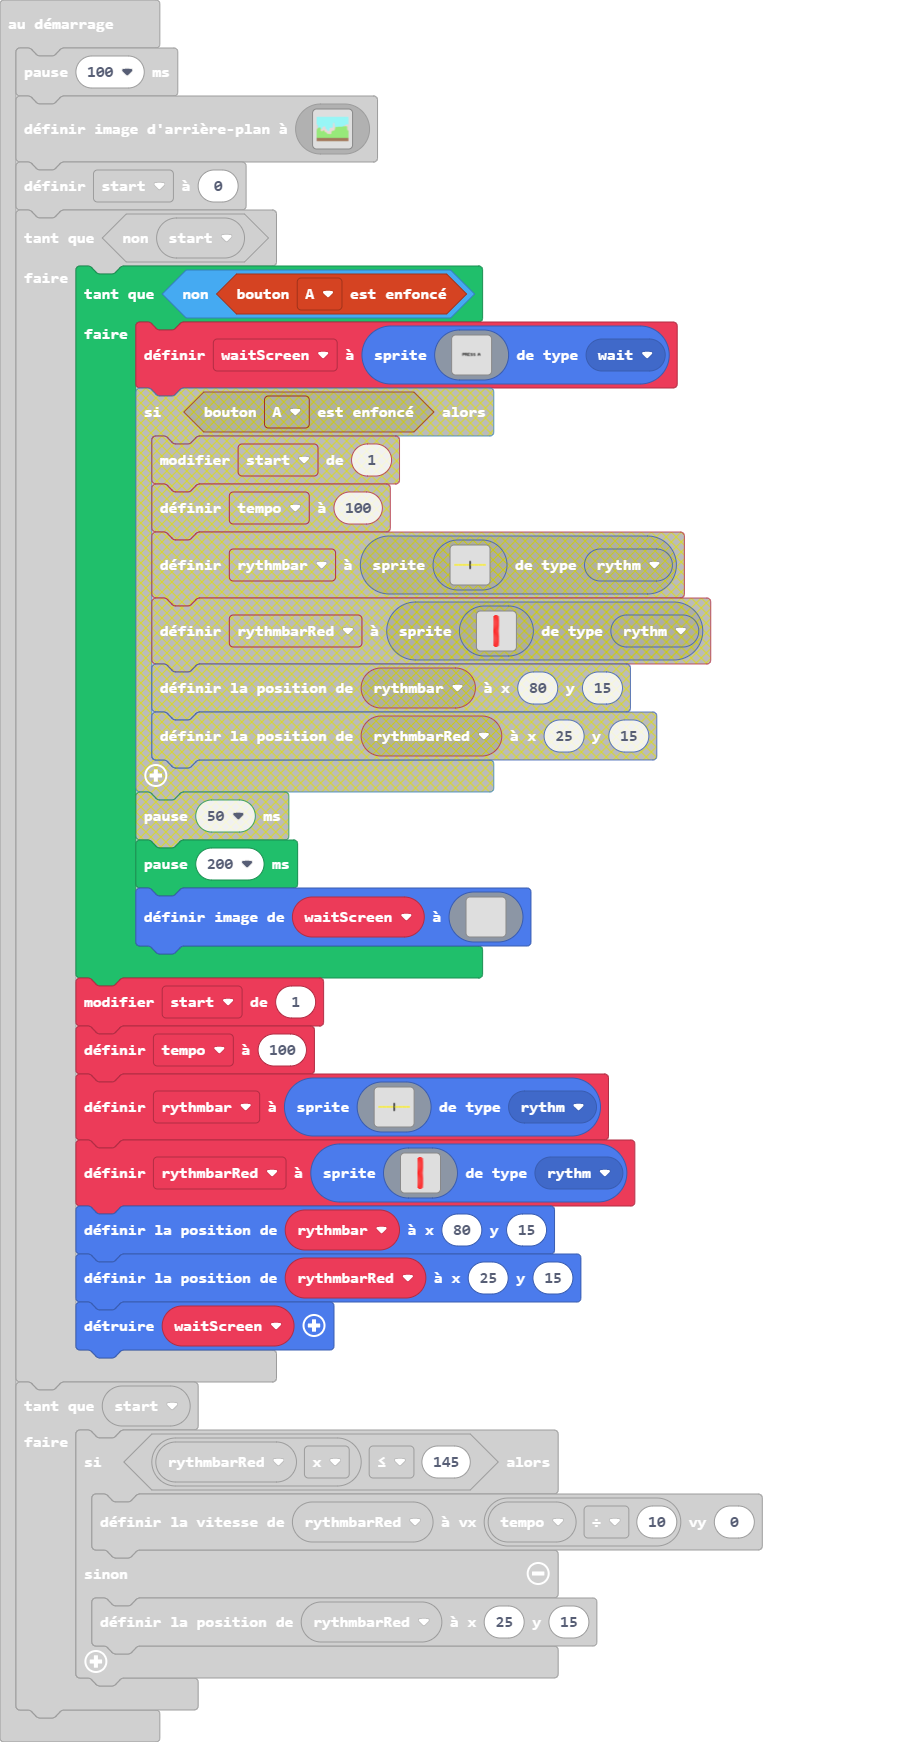
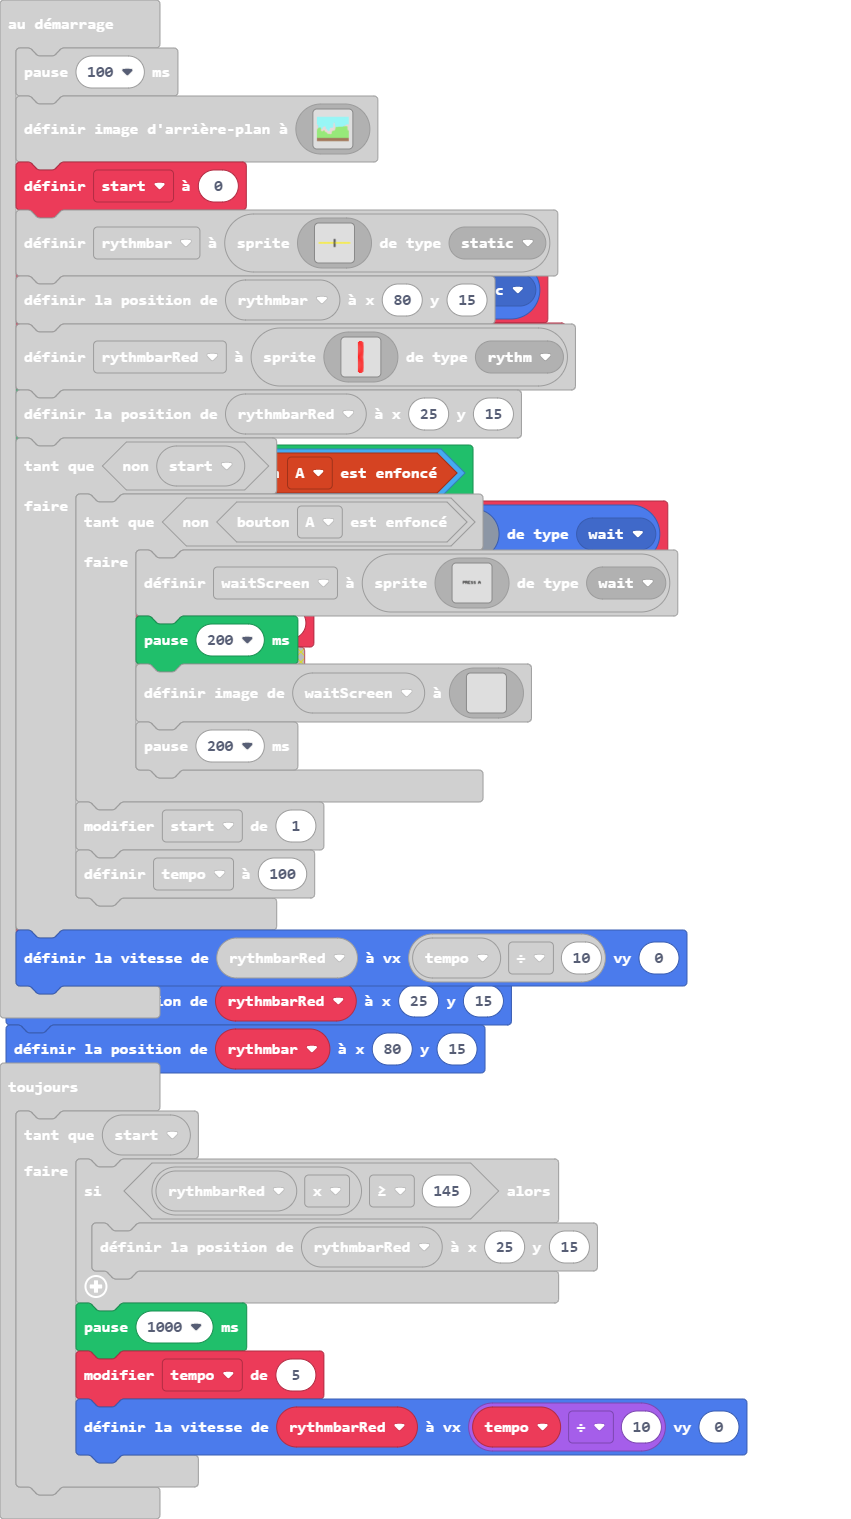
Mise à jour main.blocks, main.ts, images.g.ts

diff --git a/images.g.ts b/images.g.ts
@@ -285,60 +285,6 @@ eeeeeeeeeeeeeeeeeeeeeeeeeeeeeeeeeeeeeeeeeeeeeeeeeeeeeeeeeeeeeeeeeeeeeeeeeeeeeeee
 . . . . . . . . . . . . . . . . 
 . . . . . . . . . . . . . . . . 
 `;
-            case "image9":return img`
-. . . . . . . . . . . . . . . . 
-. . . . . . . . . . . . . . . . 
-. . . . . . . . . . . . . . . . 
-. . . . . . . . . . . . . . . . 
-. . . . . . . . . . . . . . . . 
-. . . . . . . . . . . . . . . . 
-. . . . . . . . . . . . . . . . 
-. . . . . . . . . . . . . . . . 
-. . . . . . . . . . . . . . . . 
-. . . . . . . . . . . . . . . . 
-. . . . . . . . . . . . . . . . 
-. . . . . . . . . . . . . . . . 
-. . . . . . . . . . . . . . . . 
-. . . . . . . . . . . . . . . . 
-. . . . . . . . . . . . . . . . 
-. . . . . . . . . . . . . . . . 
-`;
-            case "image10":return img`
-. . . . . . . . . . . . . . . . 
-. . . . . . . . . . . . . . . . 
-. . . . . . . . . . . . . . . . 
-. . . . . . . . . . . . . . . . 
-. . . . . . . . . . . . . . . . 
-. . . . . . . . . . . . . . . . 
-. . . . . . . . . . . . . . . . 
-. . . . . . . . . . . . . . . . 
-. . . . . . . . . . . . . . . . 
-. . . . . . . . . . . . . . . . 
-. . . . . . . . . . . . . . . . 
-. . . . . . . . . . . . . . . . 
-. . . . . . . . . . . . . . . . 
-. . . . . . . . . . . . . . . . 
-. . . . . . . . . . . . . . . . 
-. . . . . . . . . . . . . . . . 
-`;
-            case "image11":return img`
-. . . . . . . . . . . . . . . . 
-. . . . . . . . . . . . . . . . 
-. . . . . . . . . . . . . . . . 
-. . . . . . . . . . . . . . . . 
-. . . . . . . . . . . . . . . . 
-. . . . . . . . . . . . . . . . 
-. . . . . . . . . . . . . . . . 
-. . . . . . . . . . . . . . . . 
-. . . . . . . . . . . . . . . . 
-. . . . . . . . . . . . . . . . 
-. . . . . . . . . . . . . . . . 
-. . . . . . . . . . . . . . . . 
-. . . . . . . . . . . . . . . . 
-. . . . . . . . . . . . . . . . 
-. . . . . . . . . . . . . . . . 
-. . . . . . . . . . . . . . . . 
-`;
         }
         return null;
     })

diff --git a/main.ts b/main.ts
@@ -130,7 +130,9 @@ scene.setBackgroundImage(img`
     `)
 let start = 0
 let rythmbar = sprites.create(assets.image`ref_bar`, SpriteKind.static)
+rythmbar.setPosition(80, 15)
 let rythmbarRed = sprites.create(assets.image`myImage2`, SpriteKind.rythm)
+rythmbarRed.setPosition(25, 15)
 while (!(start)) {
     while (!(controller.A.isPressed())) {
         waitScreen = sprites.create(assets.image`pressA`, SpriteKind.wait)
@@ -157,14 +159,15 @@ while (!(start)) {
     }
     start += 1
     tempo = 100
-    rythmbarRed.setPosition(25, 15)
-    rythmbar.setPosition(80, 15)
 }
+rythmbarRed.setVelocity(tempo / 10, 0)
 forever(function () {
     while (start) {
-        rythmbarRed.setVelocity(tempo / 10, 0)
         if (rythmbarRed.x >= 145) {
             rythmbarRed.setPosition(25, 15)
         }
+        pause(1000)
+        tempo += 5
+        rythmbarRed.setVelocity(tempo / 10, 0)
     }
 })
